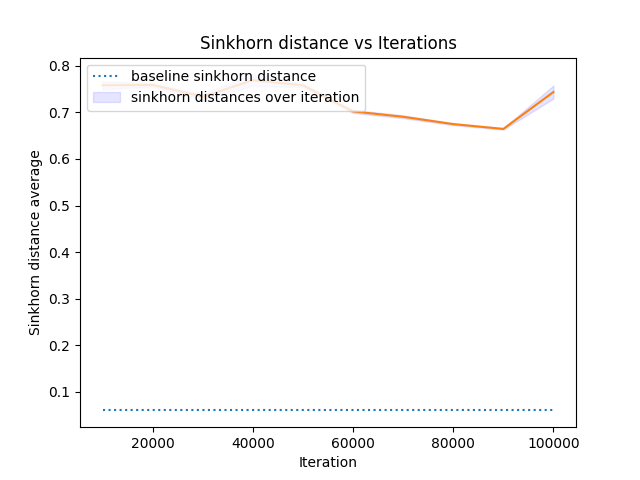
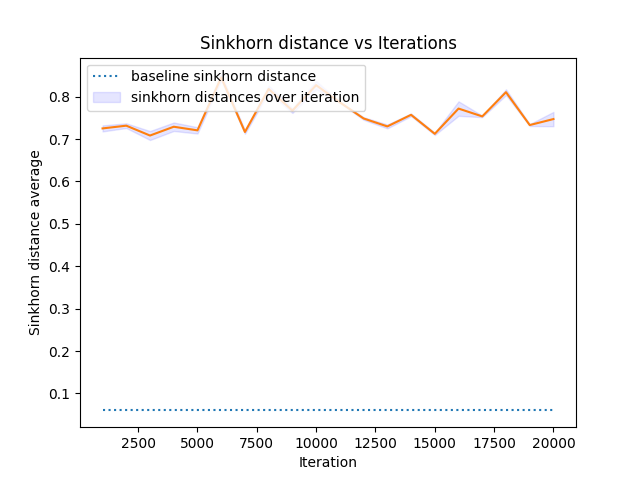
Trial 1 with a head and time-variant tail approac for DDPM step modeling 1. The model used is similar to the on in https://github.com/MaximeVandegar/Papers-in-100-Lines-of-Code/blob/main/Deep_Unsupervised_Learning_using_Nonequilibrium_Thermodynamics/diffusion_models.py#L15 , but only the tail part 2

diff --git a/denoising_diffusion_pytorch/denoising_diffusion_pytorch.py b/denoising_diffusion_pytorch/denoising_diffusion_pytorch.py
@@ -307,66 +307,37 @@ class FuncApproxNN(nn.Module):
             self,
             hidden_dim: int,
             input_dim: int,
-            time_dim: int,
-            # init_dim=None,
-            # out_dim=None,
-            # dim_mults=(1, 2, 4, 8),
-            # channels=3,
-            self_condition=False,
-            # resnet_block_groups=8,
-            # learned_variance=False,
-            learned_sinusoidal_cond=False,
-            random_fourier_features=False,
-            learned_sinusoidal_dim=16,
-            sinusoidal_pos_emb_theta=10000
-            # attn_dim_head=32,
-            # attn_heads=4,
-            # full_attn=None,  # defaults to full attention only for inner most layer
-            # flash_attn=False
+            time_steps: int
     ):
         super().__init__()
+        self.time_steps = time_steps
+        # ----------------------------
+        # Impl. similar to the one in
+        #   https://github.com/MaximeVandegar/Papers-in-100-Lines-of-Code/blob/main/Deep_Unsupervised_Learning_using_Nonequilibrium_Thermodynamics/diffusion_models.py#L15
+        #   And the accompanying article is
+        # https://papers-100-lines.medium.com/diffusion-models-from-scratch-tutorial-in-100-lines-of-pytorch-code-5dac9f472f1c
+        self.models_list = torch.nn.ModuleList(
+            [torch.nn.Sequential(torch.nn.Linear(input_dim, hidden_dim, dtype=torch.float64),
+                                 torch.nn.Tanh(),
+                                 torch.nn.Linear(hidden_dim, hidden_dim, dtype=torch.float64),
+                                 torch.nn.Tanh(),
+                                 torch.nn.Linear(hidden_dim, input_dim, dtype=torch.float64)) for _ in
+             range(time_steps)])
 
-        # determine dimensions
-
-        # self.channels = channels
-        self.self_condition = self_condition
-
-        self.random_or_learned_sinusoidal_cond = learned_sinusoidal_cond or random_fourier_features
-
-        if self.random_or_learned_sinusoidal_cond:
-            sinu_pos_emb = RandomOrLearnedSinusoidalPosEmb(learned_sinusoidal_dim, random_fourier_features)
-            fourier_dim = learned_sinusoidal_dim + 1
-        else:
-            sinu_pos_emb = SinusoidalPosEmb(hidden_dim, theta=sinusoidal_pos_emb_theta)
-            fourier_dim = hidden_dim
-
-        # Heuristic rule
-        assert hidden_dim >= (input_dim + time_dim) * 2
-        self.time_mlp = nn.Sequential(
-            sinu_pos_emb,
-            nn.Linear(fourier_dim, time_dim),
-            nn.GELU(),
-            nn.Linear(time_dim, time_dim)
-        )
-        # simple fully connected neural network
-        self.tensor_dtype = torch.float64
-        self.fcn = nn.Sequential(nn.Linear(input_dim + time_dim, hidden_dim, dtype=self.tensor_dtype), nn.ReLU(),
-                                 nn.Linear(hidden_dim, input_dim, dtype=self.tensor_dtype))
-
-    @property
-    def downsample_factor(self):
-        return 2 ** (len(self.downs) - 1)
-
-    def forward(self, x, time, x_self_cond=None):
-        # We get this exception with sklearn dataset
-        # RuntimeError: mat1 and mat2 must have the same dtype, but got Float and Double
-        # Making casting to float64 at this level to avoid upstream code modifications
+    def forward(self, x, t, self_cond=None):
+        # self_cond is a redundant parameter for compatibility
+        # Similar to Impl. in
+        # https://github.com/MaximeVandegar/Papers-in-100-Lines-of-Code/blob/main/Deep_Unsupervised_Learning_using_Nonequilibrium_Thermodynamics/diffusion_models.py#L26
+        # https://papers-100-lines.medium.com/diffusion-models-from-scratch-tutorial-in-100-lines-of-pytorch-code-5dac9f472f1c
         x = x.double()
         assert len(x.shape) == 2
-        t = self.time_mlp(time)
-        x_aug = torch.cat([x, t], dim=1)
-        x_out = self.fcn(x_aug)
-        return x_out
+        t_values = list(t.detach().cpu().numpy())
+        x_out_list = []
+        for i, t_val in enumerate(t_values):
+            x_out_single = self.models_list[t_val](x[i, :])
+            x_out_list.append(x_out_single)
+        x_out_tensor = torch.stack(x_out_list, dim=0)
+        return x_out_tensor
 
         # h = []
         #

diff --git a/denoising_diffusion_pytorch/ddpm_sandbox/ddpm_trainer.py b/denoising_diffusion_pytorch/ddpm_sandbox/ddpm_trainer.py
@@ -357,10 +357,10 @@ if __name__ == '__main__':
     num_images = 1
     num_channels = 1
     batch_size = 64
-    num_train_step = 100_000
+    num_train_step = 20_000
     debug_flag = False
-    pbar_update_freq = 1000
-    checkpoint_freq = 10_000
+    pbar_update_freq = 100
+    checkpoint_freq = 1000
     unet_dim = 64
     # Some assertion for params
     assert num_train_step % checkpoint_freq == 0
@@ -408,7 +408,7 @@ if __name__ == '__main__':
             trainer.set_sinkhorn_baseline(dataset_name=dataset_name, batch_size=batch_size, device=device))
 
     elif dataset_name in GaussianDiffusion.SKLEARN_DATASET_NAMES:
-        ddpm_step_model = FuncApproxNN(hidden_dim=512, input_dim=2, time_dim=128).to(device)
+        ddpm_step_model = FuncApproxNN(hidden_dim=128, input_dim=2, time_steps=time_steps).to(device)
         diffusion_model = GaussianDiffusion(model=ddpm_step_model, dataset_name=dataset_name,
                                             timesteps=time_steps).to(device)
         opt = Adam(params=diffusion_model.parameters(), lr=1e-4)

diff --git a/denoising_diffusion_pytorch/ddpm_sandbox/test/test_diffusion_model.py b/denoising_diffusion_pytorch/ddpm_sandbox/test/test_diffusion_model.py
@@ -64,7 +64,7 @@ if __name__ == '__main__':
     checkpoint_metadata_ext = ".json"
 
     model_checkpoints_path = "../models/checkpoints/ddpm_nn_circles"
-    final_model_checkpoint_name = "checkpoint_model_100000.pt"
+    final_model_checkpoint_name = "checkpoint_model_20000.pt"
     final_model_path = os.path.join(model_checkpoints_path, final_model_checkpoint_name)
     # Test if cuda is available
     logger.info(f"Cuda checks")
@@ -90,7 +90,7 @@ if __name__ == '__main__':
         ).to(device)
         sample_batch_size = 4
     elif dataset_name in GaussianDiffusion.SKLEARN_DATASET_NAMES:
-        step_model = FuncApproxNN(hidden_dim=512, input_dim=2, time_dim=128).to(device)
+        step_model = FuncApproxNN(hidden_dim=128, input_dim=2, time_steps=time_steps).to(device)
         diffusion_model = GaussianDiffusion(model=step_model, dataset_name=dataset_name,
                                             timesteps=time_steps).to(device)
         sample_batch_size = 1024
